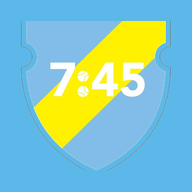
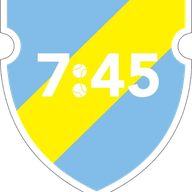
Add files via upload

diff --git a/index.html b/index.html
@@ -2196,7 +2196,7 @@ header::after{
 </head>
 <body>
 <div id="splash-screen" style="position:fixed;inset:0;background:#0a0a0a;display:flex;flex-direction:column;align-items:center;justify-content:center;z-index:9999;transition:opacity 0.5s ease">
-  <img src="icon-192.png" style="width:150px;height:150px;object-fit:contain;animation:splashPulse 1.4s ease-in-out infinite;filter:drop-shadow(0 0 28px rgba(100,174,220,0.7));margin-bottom:28px;mix-blend-mode:screen">
+  <img src="icon-transparent.png" style="width:150px;height:150px;object-fit:contain;animation:splashPulse 1.4s ease-in-out infinite;filter:drop-shadow(0 0 28px rgba(100,174,220,0.7));margin-bottom:28px">
   <div style="font-family:'Playfair Display',serif;font-size:0.75rem;color:rgba(255,255,255,0.5);letter-spacing:0.18em;text-transform:uppercase;animation:splashFadeIn 0.6s ease 0.2s both">Cargando...</div>
 </div>
 <header>
